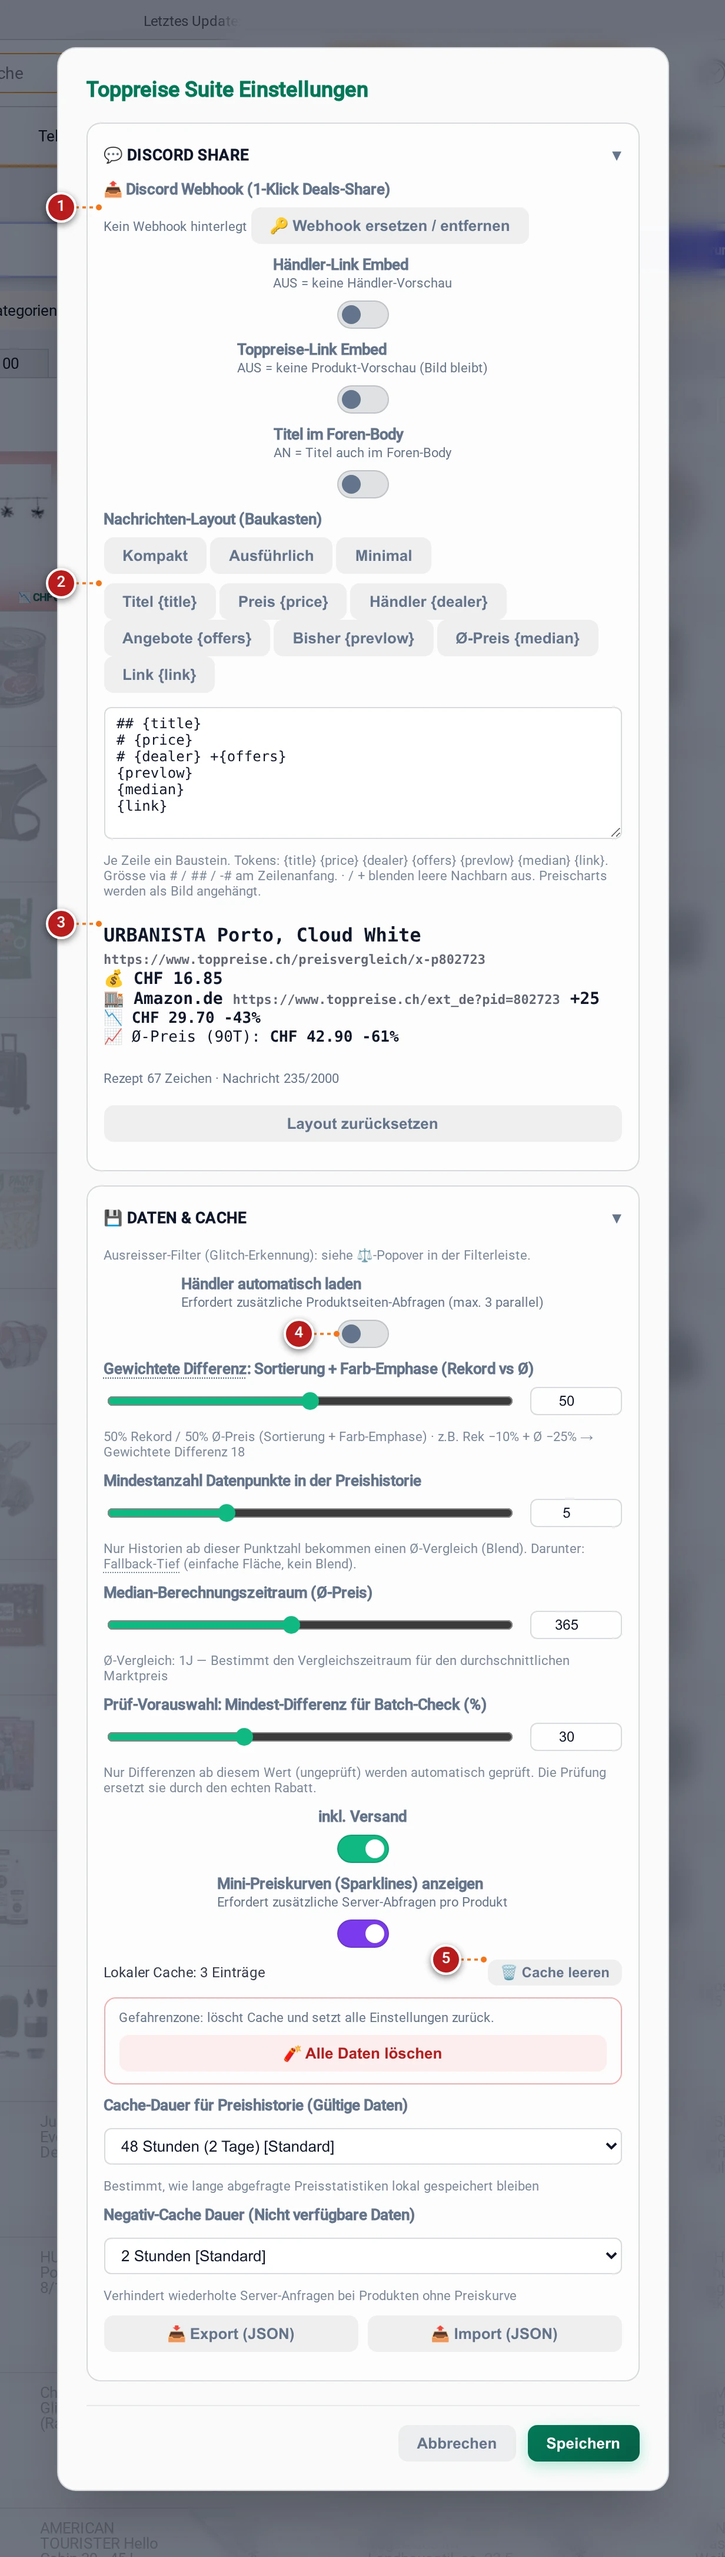
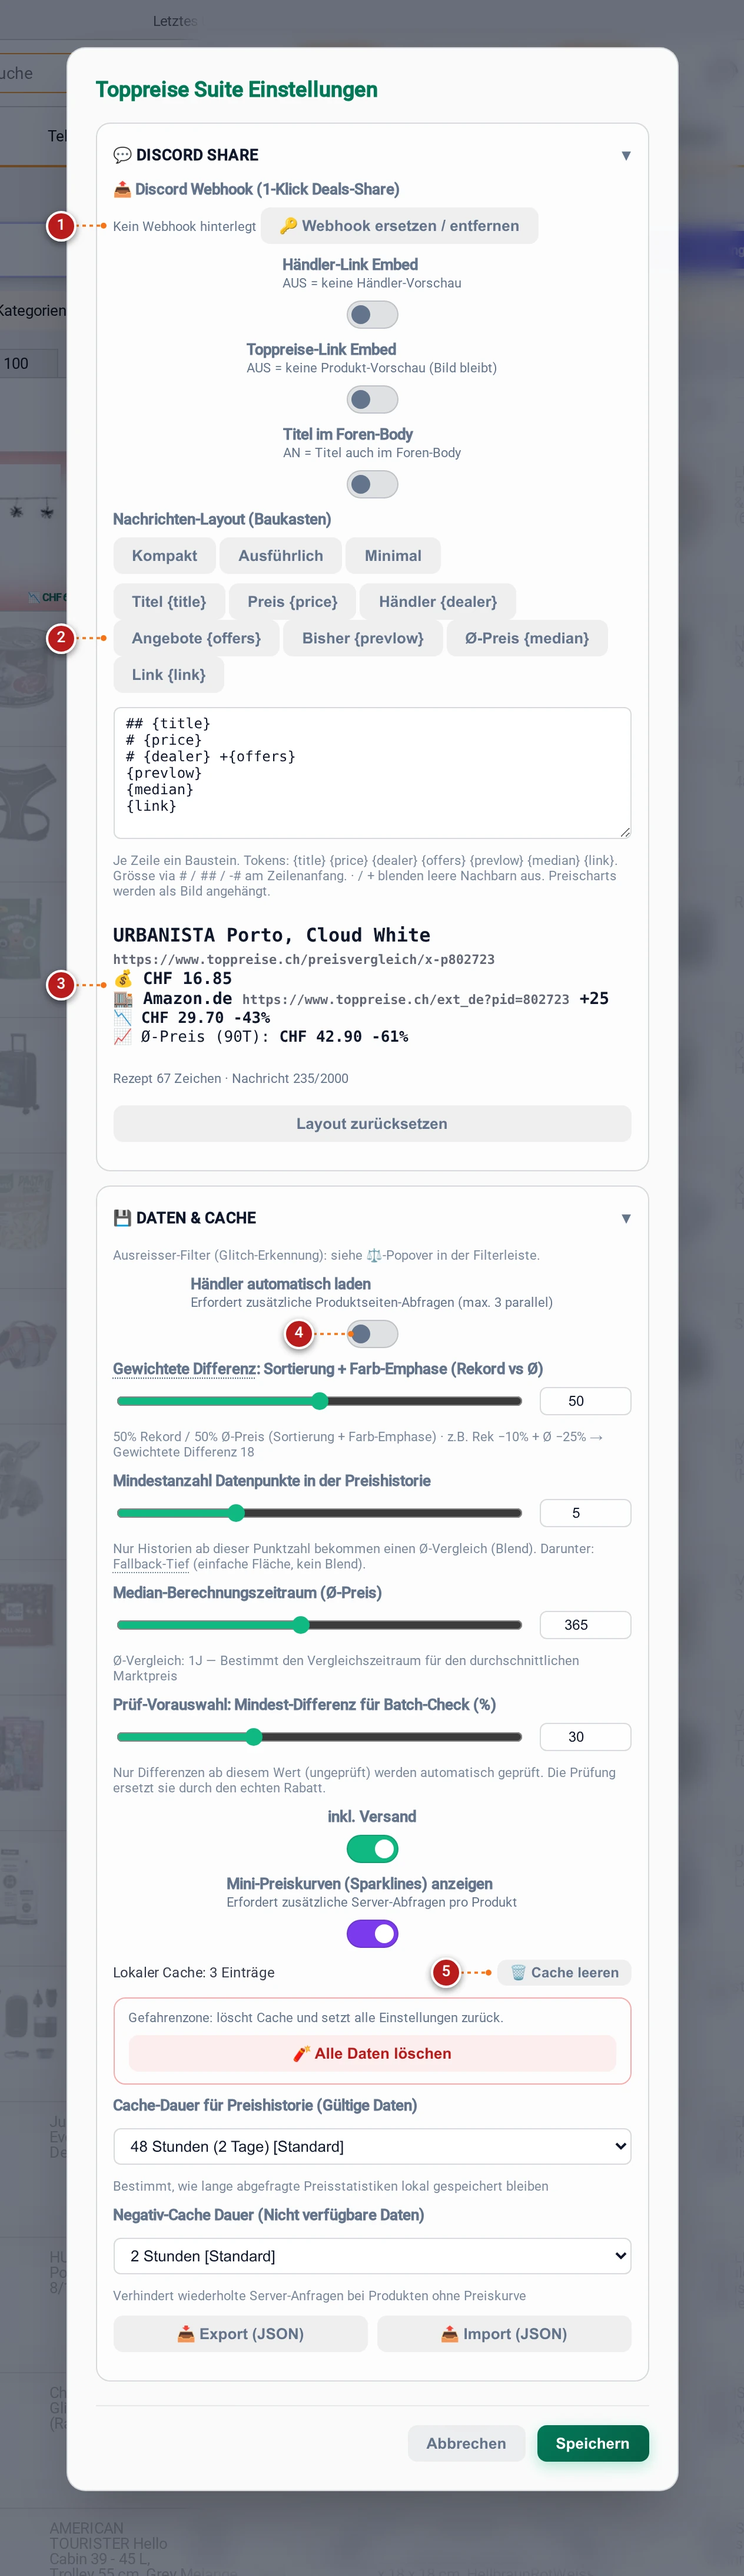
docs(toppreise): align callout columns and add text standoff to screenshot leaders

diff --git a/toppreise/docs/shots/index.html b/toppreise/docs/shots/index.html
@@ -125,7 +125,7 @@
 <body>
 <header>
   <h1>Toppreise.ch Suite — Screenshot Gallery</h1>
-  <div class="timestamp">Generiert: 2026-10-18 14:33:53 UTC</div>
+  <div class="timestamp">Generiert: 2026-10-18 15:07:21 UTC</div>
 </header>
 <main class="gallery-grid">
   

diff --git a/toppreise/tools/refresh-screenshot.py b/toppreise/tools/refresh-screenshot.py
@@ -248,49 +248,82 @@ def render_annotated(annotator_page, raw_bytes, origin, callouts, out_path):
         bw = box["width"]
         bh = box["height"]
 
+        is_small = (bw <= 28 and bh <= 28)
+
         if anchor == "outside-left":
-            bx = rel_x - 36
+            bx = rel_x - 52
             by = rel_y + bh / 2
-            tx = rel_x - 4
-            ty = by
+            tx = (rel_x + bw / 2) if is_small else (rel_x - 8)
+            ty = (rel_y + bh / 2) if is_small else by
         elif anchor == "outside-top":
             bx = rel_x + bw / 2
-            by = rel_y - 28
+            by = rel_y - 32
             tx = bx
-            ty = rel_y - 4
+            ty = (rel_y + bh / 2) if is_small else (rel_y - 6)
         elif anchor == "outside-right":
-            bx = rel_x + bw + 36
+            bx = rel_x + bw + 52
             by = rel_y + bh / 2
-            tx = rel_x + bw + 4
-            ty = by
+            tx = (rel_x + bw / 2) if is_small else (rel_x + bw + 8)
+            ty = (rel_y + bh / 2) if is_small else by
         elif anchor == "outside-bottom":
             bx = rel_x + bw / 2
-            by = rel_y + bh + 28
+            by = rel_y + bh + 32
             tx = bx
-            ty = rel_y + bh + 4
+            ty = (rel_y + bh / 2) if is_small else (rel_y + bh + 6)
         elif anchor == "top-left":
-            bx = rel_x - 28
-            by = rel_y - 24
-            tx = rel_x - 4
-            ty = rel_y - 4
+            bx = rel_x - 36
+            by = rel_y - 28
+            tx = (rel_x + bw / 2) if is_small else (rel_x - 8)
+            ty = (rel_y + bh / 2) if is_small else (rel_y - 6)
+        elif isinstance(anchor, dict):
+            bx = anchor["bx"] if "bx" in anchor else (rel_x + anchor.get("dx", -52))
+            by = anchor["by"] if "by" in anchor else ((rel_y + bh / 2) if anchor.get("dy", 0) == 0 else rel_y + anchor["dy"])
+            if "tx" in anchor:
+                tx = anchor["tx"]
+            else:
+                if is_small:
+                    tx = rel_x + bw / 2
+                else:
+                    tx = (rel_x - 8) if bx < rel_x else ((rel_x + bw + 8) if bx > rel_x + bw else bx)
+            if "ty" in anchor:
+                ty = anchor["ty"]
+            else:
+                if is_small:
+                    ty = rel_y + bh / 2
+                else:
+                    ty = (rel_y - 6) if by < rel_y else ((rel_y + bh + 6) if by > rel_y + bh else by)
         elif isinstance(anchor, (list, tuple)) and len(anchor) == 2:
             dx, dy = anchor
             bx = rel_x + dx
-            by = rel_y + dy
-            tx = rel_x - 4 if dx < 0 else (rel_x + bw + 4 if dx > bw else rel_x + dx)
-            ty = rel_y - 4 if dy < 0 else (rel_y + bh + 4 if dy > bh else rel_y + dy)
+            by = (rel_y + bh / 2) if dy == 0 else (rel_y + dy)
+            if is_small:
+                tx = rel_x + bw / 2
+                ty = rel_y + bh / 2
+            else:
+                if dx < 0:
+                    tx = rel_x - 8
+                elif dx > bw:
+                    tx = rel_x + bw + 8
+                else:
+                    tx = rel_x + dx
+                if dy < 0:
+                    ty = rel_y - 6
+                elif dy > bh:
+                    ty = rel_y + bh + 6
+                else:
+                    ty = rel_y + bh / 2 if (dx < 0 or dx > bw) else rel_y + dy
         else:
-            bx = rel_x - 28
-            by = rel_y - 24
-            tx = rel_x - 4
-            ty = rel_y - 4
+            bx = rel_x - 36
+            by = rel_y - 28
+            tx = (rel_x + bw / 2) if is_small else (rel_x - 8)
+            ty = (rel_y + bh / 2) if is_small else (rel_y - 6)
 
         # Clamp badge coordinates so discs never bleed outside the canvas
         bx = max(14, min(css_w - 14, bx))
         by = max(14, min(css_h - 14, by))
 
         dist = ((bx - tx) ** 2 + (by - ty) ** 2) ** 0.5
-        if dist > 6:
+        if dist > 4:
             svg_leaders.append(
                 f'<line x1="{bx:.1f}" y1="{by:.1f}" x2="{tx:.1f}" y2="{ty:.1f}" '
                 f'stroke="#f97316" stroke-width="1.8" stroke-dasharray="3 3"/>'
@@ -367,10 +400,10 @@ def setup_toolbar(page, pids):
     """Shot 01a: Sticky toolbar filter popover and batch scanner, cleanly focused on filter controls."""
     page.evaluate("window.scrollTo(0, 0)")
     page.evaluate("""() => {
-        document.body.style.paddingLeft = '80px';
+        document.body.style.paddingLeft = '90px';
         document.getElementById('tp-bar-filter-popover')?.classList.add('tp-show');
         // Cleanly hide background cards and host page noise
-        document.querySelectorAll('.Plugin_MainTopHead, .Plugin_GeneralBreadcrumb, .breadcrumb, #breadcrumb, .Plugin_TimePeriod, .f_Plugin_Filter_TimePeriod, .filterBoxContainer, .sidebarWrapper, .tpContentSidebar, .sidebar, .Plugin_IgnoredCategoriesHint, .Plugin_Hint, .alert, .mainContent, #pageContent, .mixedBrowsingListProduct, .Plugin_Product, .Plugin_CategoryList, [class*="Breadcrumb"], [class*="Hint"]').forEach(el => el.style.setProperty('display', 'none', 'important'));
+        document.querySelectorAll('.Plugin_MainTopHead, .Plugin_GeneralBreadcrumb, .breadcrumb, #breadcrumb, .Plugin_TimePeriod, .f_Plugin_Filter_TimePeriod, .filterBoxContainer, .sidebarWrapper, .tpContentSidebar, .sidebar, .Plugin_IgnoredCategoriesHint, .Plugin_Hint, .alert, .mainContent, #pageContent, .mixedBrowsingListProduct, .Plugin_Product, .Plugin_CategoryList, .Plugin_IgnoredCategories, [class*="Breadcrumb"], [class*="Hint"]').forEach(el => el.style.setProperty('display', 'none', 'important'));
         // Hide right-hand toolbar groups so 01a focuses strictly on filter button and popover
         document.querySelectorAll('.tp-group-view, .tp-group-deals, .tp-divider').forEach(el => el.style.setProperty('display', 'none', 'important'));
         // Position floating CTA right below the filter popover with a clean gap
@@ -378,12 +411,15 @@ def setup_toolbar(page, pids):
         const pop = document.getElementById('tp-bar-filter-popover');
         if (cta && pop) {
             const popRect = pop.getBoundingClientRect();
-            cta.style.position = 'absolute';
-            cta.style.bottom = 'auto';
-            cta.style.top = (popRect.bottom + 24) + 'px';
-            cta.style.left = popRect.left + 'px';
-            cta.style.right = 'auto';
-            cta.style.width = 'max-content';
+            cta.style.setProperty('position', 'absolute', 'important');
+            cta.style.setProperty('bottom', 'auto', 'important');
+            cta.style.setProperty('top', (popRect.bottom + 24) + 'px', 'important');
+            cta.style.setProperty('left', popRect.left + 'px', 'important');
+            cta.style.setProperty('right', 'auto', 'important');
+            cta.style.setProperty('width', 'max-content', 'important');
+            cta.style.setProperty('animation', 'none', 'important');
+            cta.style.setProperty('transform', 'none', 'important');
+            cta.style.setProperty('transition', 'none', 'important');
         }
     }""")
     page.wait_for_timeout(400)
@@ -395,17 +431,16 @@ def setup_toolbar(page, pids):
     boxes = [btn_box, pop_box]
     if cta_box:
         boxes.append(cta_box)
-    clip = union(boxes, pad=64)
-
+    clip = union(boxes, pad=80)
     raw_bytes = page.screenshot(clip=clip)
     controls = [
-        ("#tp-bar-filter-btn", "Filter-Button (Verbergen, Dimmen oder Hervorheben je Ursache)", "outside-top"),
-        ("[data-filter-row='neg'] .tp-filter-label", "Negativ-Filter (Ausschluss nach Stichwort mit Wortgrenzen)", "outside-left"),
-        ("[data-filter-row='min'] .tp-filter-label", "Min-Angebote (Marktplatz-Filter; nur auf Seiten mit Händlerzeilen aktiv)", "outside-left"),
-        ("[data-filter-row='unchecked'] .tp-filter-label", "Ungeprüfte Angebote (Angebote ohne Historie verbergen/dimmen)", "outside-left"),
-        ("[data-filter-row='vortief'] .tp-filter-label", "Fallback-Tiefs ein-/ausschliessen (geringe Historie)", "outside-left"),
-        ("[data-filter-row='deal-disc'] .tp-filter-label", "Min-Rabatt Stepper (Angebote unter X% Rabatt filtern)", "outside-left"),
-        ("#tp-floating-check-btn", "Tiefstpreise prüfen (1-Klick Batch-Scanner)", "outside-left"),
+        ("#tp-bar-filter-btn", "Filter-Button (Verbergen, Dimmen oder Hervorheben je Ursache)", {"bx": 32}),
+        ("[data-filter-row='neg'] .tp-filter-label", "Negativ-Filter (Ausschluss nach Stichwort mit Wortgrenzen)", {"bx": 32}),
+        ("[data-filter-row='min'] .tp-filter-label", "Min-Angebote (Marktplatz-Filter; nur auf Seiten mit Händlerzeilen aktiv)", {"bx": 32}),
+        ("[data-filter-row='unchecked'] .tp-filter-label", "Ungeprüfte Angebote (Angebote ohne Historie verbergen/dimmen)", {"bx": 32}),
+        ("[data-filter-row='vortief'] .tp-filter-label", "Fallback-Tiefs ein-/ausschliessen (geringe Historie)", {"bx": 32}),
+        ("[data-filter-row='deal-disc'] .tp-filter-label", "Min-Rabatt Stepper (Angebote unter X% Rabatt filtern)", {"bx": 32}),
+        ("#tp-floating-check-btn", "Tiefstpreise prüfen (1-Klick Batch-Scanner)", {"bx": 32}),
     ]
     callouts = []
     for item in controls:
@@ -422,9 +457,9 @@ def setup_calc_popover(page, pids):
     """Shot 01b: Calculation popover featuring live glitch preview chart and mathematical parameters."""
     page.evaluate("window.scrollTo(0, 0)")
     page.evaluate("""() => {
-        document.body.style.paddingLeft = '80px';
-        // Cleanly hide all background page content and categories
-        document.querySelectorAll('.mainContent, .leftColumn, #pageContent, .mainTopHeadContentWrapper, .mixedBrowsingListProduct, .Plugin_Product, .Plugin_IgnoredCategoriesHint, .Plugin_Hint, .alert, .tpContentSidebar, .sidebarWrapper, .sidebar, .Plugin_CategoryList').forEach(el => el.style.setProperty('display', 'none', 'important'));
+        document.body.style.paddingLeft = '90px';
+        // Cleanly hide all background page content, tabs, time period and categories
+        document.querySelectorAll('.mainContent, .leftColumn, #pageContent, .mainTopHeadContentWrapper, .mixedBrowsingListProduct, .Plugin_Product, .Plugin_IgnoredCategoriesHint, .Plugin_Hint, .alert, .tpContentSidebar, .sidebarWrapper, .sidebar, .Plugin_CategoryList, .Plugin_IgnoredCategories, .Plugin_TimePeriod, .f_Plugin_Filter_TimePeriod, .Plugin_Tab, .f_Plugin_Tab, .Plugin_Sort, .f_Plugin_Sort, .breadcrumb, #breadcrumb, [class*="Breadcrumb"], ul[class*="Tabs"], .Plugin_Tabs, .tabs, .tabWrapper, .Plugin_NavigationTab, .f_Plugin_NavigationTab, .Plugin_CollItemHead, .navigationTab, #feed-tabs, .tabbedContainer, .Plugin_TopProductListNavigation, .contentBox').forEach(el => el.style.setProperty('display', 'none', 'important'));
         // Hide toolbar buttons except calc button so no partial buttons are visible
         document.querySelectorAll('#tp-suite-filter-bar .tp-group:not(.tp-group-deals), #tp-suite-filter-bar .tp-divider, #tp-bar-bestpreise-btn').forEach(el => el.style.setProperty('display', 'none', 'important'));
     }""")
@@ -444,17 +479,17 @@ def setup_calc_popover(page, pids):
 
     wrap_box = css_box(page, "#tp-bar-calc-wrap")
     pop_box = css_box(page, "#tp-bar-calc-popover")
-    clip = union([wrap_box, pop_box], pad=64)
+    clip = union([wrap_box, pop_box], pad=88)
     raw_bytes = page.screenshot(clip=clip)
 
     controls = [
-        ("#tp-bar-weight-wrapper", "Gewichtung Median / Rekord (Schieberegler für Deal-Score)", "outside-left"),
-        ("#tp-bar-horizon-wrapper", "Ø-Zeitraum (Rolling Median von 30 bis 730 Tagen oder Lifetime)", "outside-left"),
-        ("#tp-bar-minpoints-wrapper", "Mindestpunkte (erforderliche Datenpunkte für qualifizierten Ø-Vergleich)", "outside-left"),
-        ("#tp-bar-outlier-wrapper", "Ausreisser filtern (Aktiviert automatische Glitch-Erkennung)", "outside-left"),
-        ("#tp-bar-outlier-band-wrapper", "Glitch-Band (Toleranzband um den Median in ±%)", "outside-left"),
-        ("#tp-bar-outlier-hours-wrapper", "Glitch-Fenster (Maximale Glitch-Dauer in Stunden)", "outside-left"),
-        ("#tp-calc-preview svg", "Glitch-Vorschau (Live-Chart mit Ø-Preis, Rekord, Glitch-Band & roten ✕ Glitches)", [-54, 20]),
+        ("#tp-bar-weight-wrapper", "Gewichtung Median / Rekord (Schieberegler für Deal-Score)", {"bx": 36}),
+        ("#tp-bar-horizon-wrapper", "Ø-Zeitraum (Rolling Median von 30 bis 730 Tagen oder Lifetime)", {"bx": 36}),
+        ("#tp-bar-minpoints-wrapper", "Mindestpunkte (erforderliche Datenpunkte für qualifizierten Ø-Vergleich)", {"bx": 36}),
+        ("#tp-bar-outlier-wrapper", "Ausreisser filtern (Aktiviert automatische Glitch-Erkennung)", {"bx": 36}),
+        ("#tp-bar-outlier-band-wrapper", "Glitch-Band (Toleranzband um den Median in ±%)", {"bx": 36}),
+        ("#tp-bar-outlier-hours-wrapper", "Glitch-Fenster (Maximale Glitch-Dauer in Stunden)", {"bx": 36}),
+        ("#tp-calc-preview svg", "Glitch-Vorschau (Live-Chart mit Ø-Preis, Rekord, Glitch-Band & roten ✕ Glitches)", {"bx": 36, "dy": 24}),
     ]
     callouts = []
     for item in controls:
@@ -508,23 +543,23 @@ def setup_feed_cards(page, pids):
     tb_box = css_box(page, "#tp-suite-filter-bar")
     card_boxes = [css_box(page, sel) for sel in anchors]
     boxes = [tb_box, *card_boxes]
-    clip = union(boxes, pad=32)
+    clip = union(boxes, pad=56)
     clip["y"] = max(0, tb_box["y"] - 14)
-    bottom_y = max(b["y"] + b["height"] for b in card_boxes) + 24
+    bottom_y = max(b["y"] + b["height"] for b in card_boxes) + 56
     clip["height"] = bottom_y - clip["y"]
     raw_bytes = page.screenshot(clip=clip)
 
     callouts = [
         (1, css_box(page, "#tp-bar-heat-btn"), "Heatmap-Umschalter (Farbe folgt der Rabatt-Tiefe)", "outside-top"),
         (2, css_box(page, "#tp-bar-bestpreise-btn"), "💎 Tiefstpreis-Sortierung (nach gewichtetem Deal-Score)", "outside-top"),
-        (3, css_box(page, f"{deep} .badge-dif"), "Single-Hue Deal-Heatmap (Gewichteter Deal-Score; tiefrot = neuer Rekord-Tiefstpreis)", [48, 12]),
-        (4, css_box(page, f"{markup} .badge-dif"), "Schein-Rabatt entlarvt (Preiserhöhung statt Ersparnis; echter Aufschlag in Schiefer/Bernstein)", [48, 12]),
-        (5, css_box(page, f"{fallback} .badge-dif"), "Fallback-Tief (Vortief-Vergleich bei wenigen Datenpunkten, dezent hervorgehoben)", [48, 12]),
-        (6, css_box(page, f"{deep} > .tp-share-btn"), "Discord 1-Klick Share-Button (erscheint bei Hover zum Teilen via Webhook)", "outside-left"),
-        (7, css_box(page, f"{deep} .tp-card-subline-row"), "Transparente Deal-Subline (Vortief-Abstand in % · 1-Jahres-Ø mit Abstand in %)", [20, 24]),
-        (8, css_box(page, f"{deep} .tp-dealer-name .tp-dealer-icon"), "Günstigster Händler (Direktlink zum Angebot ohne Zwischenhändler)", [-44, 0]),
-        (9, css_box(page, f"{deep} .tp-sparkline-container svg"), "Mini-Trend Sparkline (Kompakter 30-Tage-Preistrend; Klick öffnet Detail-Chart)", [48, 0]),
-        (10, css_box(page, f"{deep} .tp-review-search-btn"), "1-Klick Review-Suche (🌐 erscheint bei Hover für direkte Google-Testberichtsuche)", [-36, -22]),
+        (3, css_box(page, f"{deep} .badge-dif"), "Single-Hue Deal-Heatmap (Gewichteter Deal-Score; tiefrot = neuer Rekord-Tiefstpreis)", {"dx": 38, "dy": -28}),
+        (4, css_box(page, f"{markup} .badge-dif"), "Schein-Rabatt entlarvt (Preiserhöhung statt Ersparnis; echter Aufschlag in Schiefer/Bernstein)", {"dx": 38, "dy": -28}),
+        (5, css_box(page, f"{fallback} .badge-dif"), "Fallback-Tief (Vortief-Vergleich bei wenigen Datenpunkten, dezent hervorgehoben)", {"dx": 38, "dy": -28}),
+        (6, css_box(page, f"{deep} > .tp-share-btn"), "Discord 1-Klick Share-Button (erscheint bei Hover zum Teilen via Webhook)", [-48, 0]),
+        (7, css_box(page, f"{deep} .tp-card-subline-row"), "Transparente Deal-Subline (Vortief-Abstand in % · 1-Jahres-Ø mit Abstand in %)", {"dx": 48, "dy": 38}),
+        (8, css_box(page, f"{deep} .tp-dealer-name .tp-dealer-icon"), "Günstigster Händler (Direktlink zum Angebot ohne Zwischenhändler)", [-50, 0]),
+        (9, css_box(page, f"{deep} .tp-sparkline-container svg"), "Mini-Trend Sparkline (Kompakter 30-Tage-Preistrend; Klick öffnet Detail-Chart)", {"dx": 30, "dy": 38}),
+        (10, css_box(page, f"{deep} .tp-review-search-btn"), "1-Klick Review-Suche (🌐 erscheint bei Hover für direkte Google-Testberichtsuche)", {"dx": 10, "dy": 42}),
     ]
     return raw_bytes, {"x": clip["x"], "y": clip["y"]}, callouts, "02-feed-cards.webp"
 
@@ -589,10 +624,10 @@ def setup_search_cards(page, pids):
 
     b_box = block.bounding_box()
     clip = {
-        "x": max(0, b_box["x"] - 56),
+        "x": max(0, b_box["x"] - 68),
         "y": max(0, b_box["y"] - 2),
-        "width": b_box["width"] + 112,
-        "height": b_box["height"] + 20,
+        "width": b_box["width"] + 128,
+        "height": b_box["height"] + 24,
     }
     raw_bytes = page.screenshot(clip=clip)
     origin = {"x": clip["x"], "y": clip["y"]}
@@ -607,7 +642,7 @@ def setup_search_cards(page, pids):
 
     series_header = try_box(page, ".Plugin_ProductCollItem .product-name .bold") or try_box(page, ".Plugin_ProductCollItem .f_select_series, .Plugin_ProductCollItem a[href*='/produktserie/']")
     if series_header:
-        callouts.append((4, series_header, "Produktfamilien-Gruppierung (AirPods 5 Varianten bleiben sauber im gemeinsamen Container)", [-48, 0]))
+        callouts.append((4, series_header, "Produktfamilien-Gruppierung (AirPods 5 Varianten bleiben sauber im gemeinsamen Container)", [-50, 0]))
 
     return raw_bytes, origin, callouts, "03-search-cards.webp"
 
@@ -640,16 +675,16 @@ def setup_settings_core(page, pids):
 
     dlg_loc = page.locator(dlg)
     dlg_box = dlg_loc.bounding_box()
-    clip = union([dlg_box], pad=48)
+    clip = union([dlg_box], pad=56)
     raw_bytes = page.screenshot(clip=clip)
     origin = {"x": clip["x"], "y": clip["y"]}
 
     controls = [
-        ("#tp-dim-opacity-group", "Deckkraft / Dimmung für gefilterte Angebote (Schieberegler)", [-36, 0]),
-        ("#tp-review-search-toggle", "Review-Suche (🌐): Google-Suche mit optionalem KI-Modus", [-36, 0]),
-        ("#tp-bestpreise-mode-toggle", "Tiefstpreis-Sortierung: Rangfolge nach Gewichteter Differenz", [-36, 0]),
-        ("#tp-margin-range", "Preis-Toleranz (%): Händler-Bestpreis-Marge", [-36, 0]),
-        ("#tp-section-alarm .tp-range-container", "Preisalarm Auto-Fill: Zielpreis (%) & Dauer", [-36, 0]),
+        ("#tp-dim-opacity-group", "Deckkraft / Dimmung für gefilterte Angebote (Schieberegler)", [-44, 0]),
+        ("#tp-review-search-toggle", "Review-Suche (🌐): Google-Suche mit optionalem KI-Modus", [-44, 0]),
+        ("#tp-bestpreise-mode-toggle", "Tiefstpreis-Sortierung: Rangfolge nach Gewichteter Differenz", [-44, 0]),
+        ("#tp-margin-range", "Preis-Toleranz (%): Händler-Bestpreis-Marge", [-44, 0]),
+        ("#tp-section-alarm .tp-range-container", "Preisalarm Auto-Fill: Zielpreis (%) & Dauer", [-44, 0]),
     ]
     callouts = []
     for sel, cap, anchor in controls:
@@ -692,16 +727,16 @@ def setup_settings_advanced(page, pids):
 
     dlg_loc = page.locator(dlg)
     dlg_box = dlg_loc.bounding_box()
-    clip = union([dlg_box], pad=48)
+    clip = union([dlg_box], pad=56)
     raw_bytes = page.screenshot(clip=clip)
     origin = {"x": clip["x"], "y": clip["y"]}
 
     controls = [
-        ("#tp-discord-webhook-collapsed", "Discord Webhook: Direkte 1-Klick Deal-Integration (lokal gespeichert)", [-36, 0]),
-        ("#tp-discord-layout-chips", "Discord Layout-Baukasten mit variablen Tokens", [-36, 0]),
-        ("#tp-discord-layout-preview", "Live-Markdown-Vorschau der generierten Nachricht", [-36, 0]),
-        ("#tp-dealer-autofetch-toggle", "Händler automatisch im Hintergrund laden (max. 3 parallel)", [-36, 0]),
-        ("#tp-cache-clear-btn", "Cache-Verwaltung: TTL-Regler, Speicherbereinigung & Konfigurations-Export", [-36, 0]),
+        ("#tp-discord-webhook-collapsed", "Discord Webhook: Direkte 1-Klick Deal-Integration (lokal gespeichert)", [-44, 0]),
+        ("#tp-discord-layout-chips", "Discord Layout-Baukasten mit variablen Tokens", [-44, 0]),
+        ("#tp-discord-layout-preview", "Live-Markdown-Vorschau der generierten Nachricht", [-44, 0]),
+        ("#tp-dealer-autofetch-toggle", "Händler automatisch im Hintergrund laden (max. 3 parallel)", [-44, 0]),
+        ("#tp-cache-clear-btn", "Cache-Verwaltung: TTL-Regler, Speicherbereinigung & Konfigurations-Export", [-44, 0]),
     ]
     callouts = []
     for sel, cap, anchor in controls:
